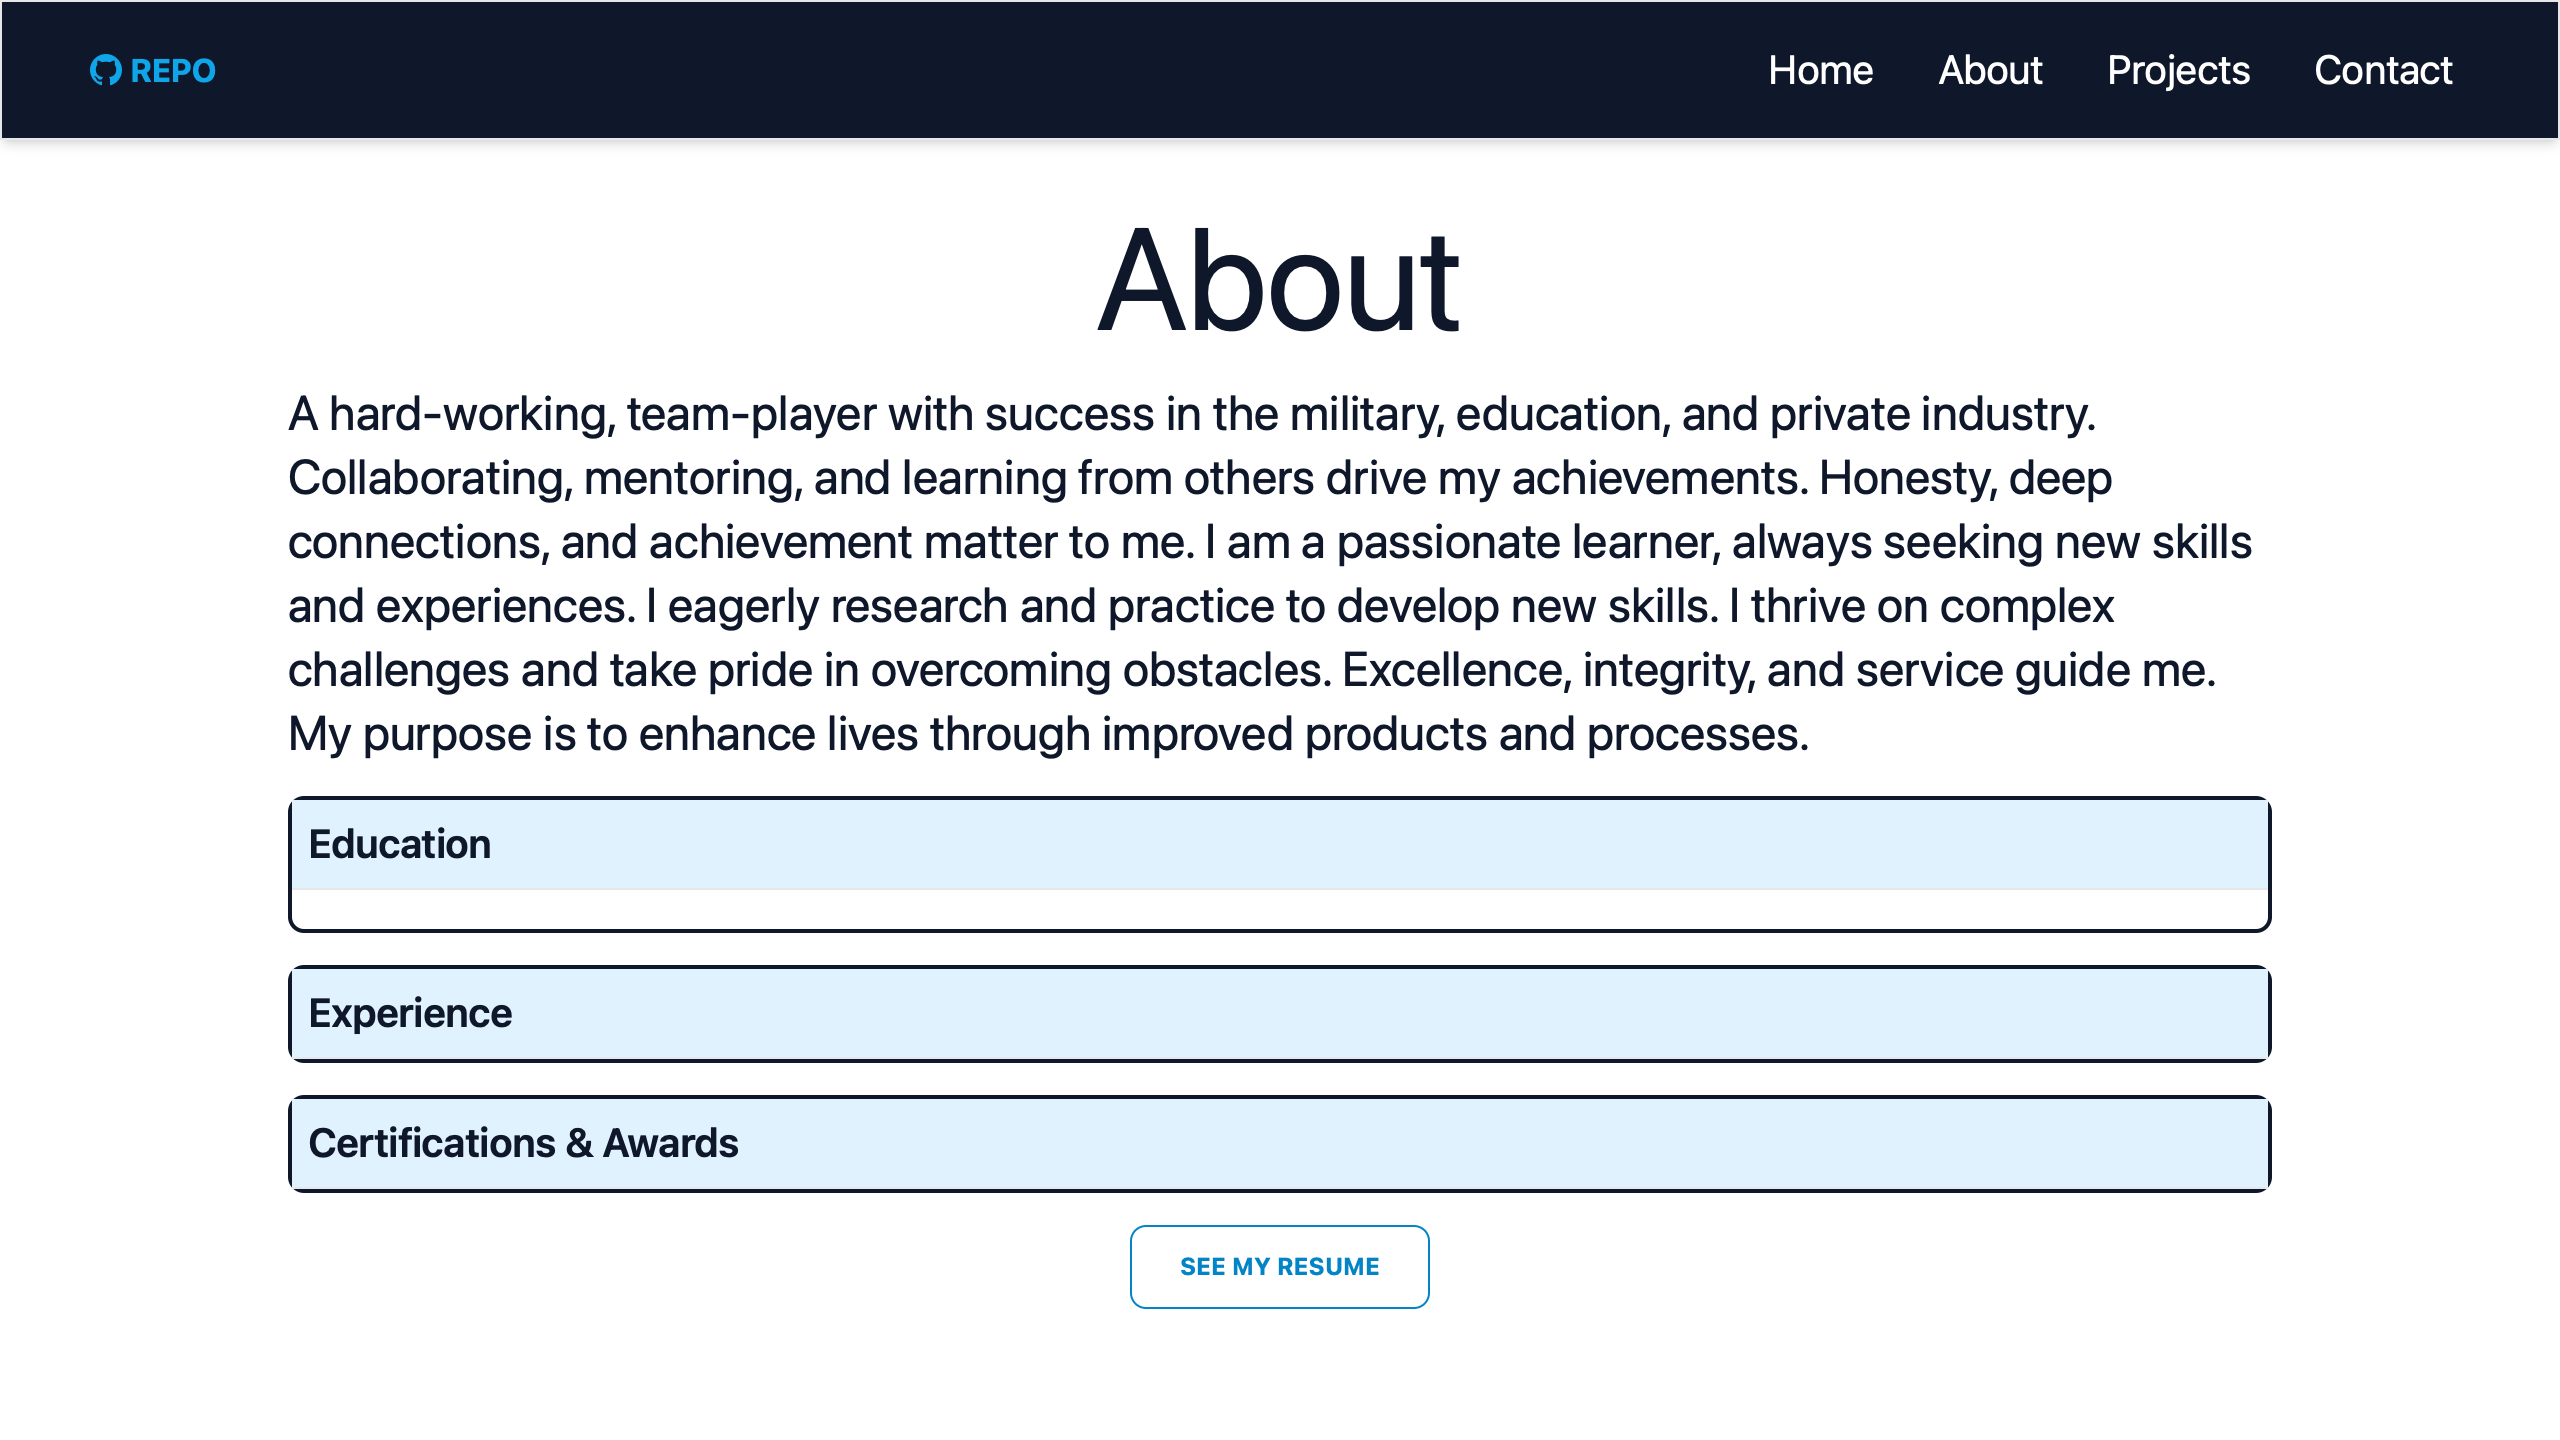
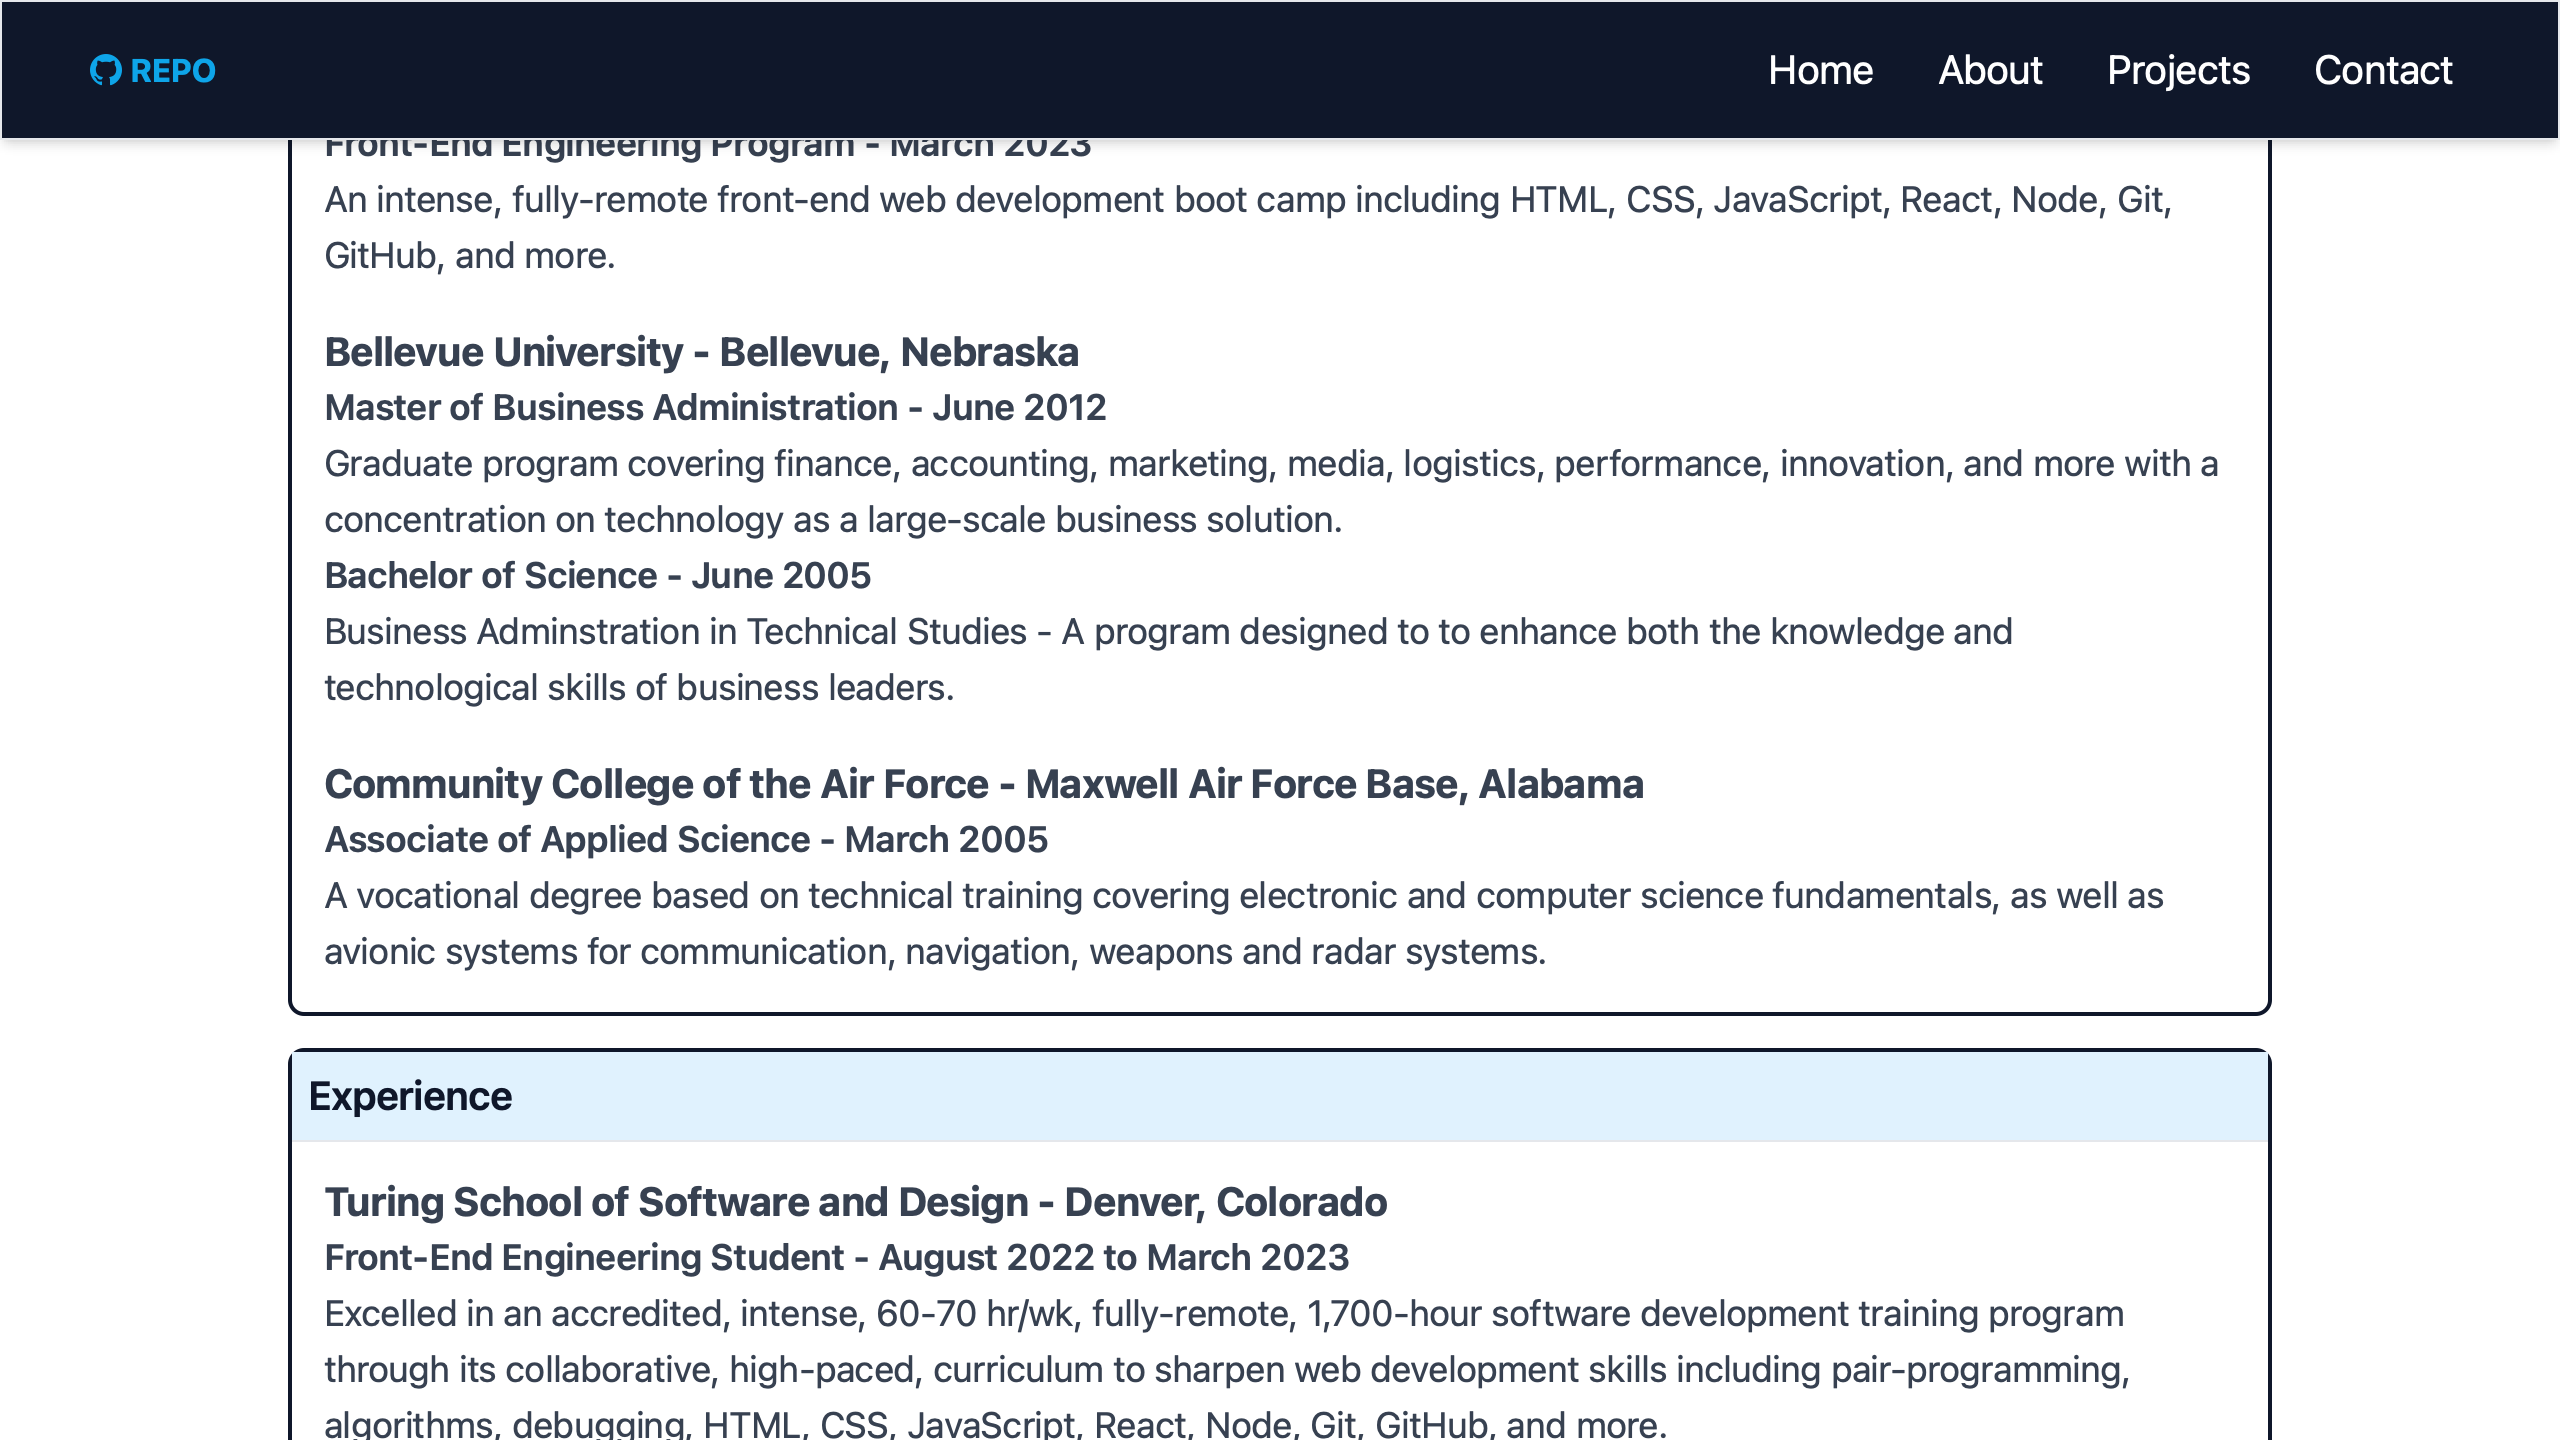
Add test for Experience accordion menu

Changed region(s): [[0.0938, 0.0938, 0.9062, 1.0]]

diff --git a/tests/about.spec.js b/tests/about.spec.js
@@ -12,8 +12,14 @@ test('about page', async ({ page }) => {
   ).toBeVisible()
 
   await page.getByRole('button', { name: 'Education' }).click();
-  const title = await page.getByRole('heading', { name: 'Turing School of Software and Design - Denver, Colorado' }).first()
+  const educationTitle = await page.getByRole('heading', { name: 'Turing School of Software and Design - Denver, Colorado' }).first()
   
-  await expect(title).toBeInViewport()
+  await expect(educationTitle).toBeInViewport()
+
+  await page.getByRole('button', { name: 'Experience' }).click();
+  await page.waitForTimeout(500)
+  const experienceTitle = await page.getByRole('heading', { name: 'Multiple Schools in Colorado & Costa Rica' })
+
+  await expect(experienceTitle).toBeVisible()
   await page.screenshot({ path: 'screenshot1.png' })
 })
